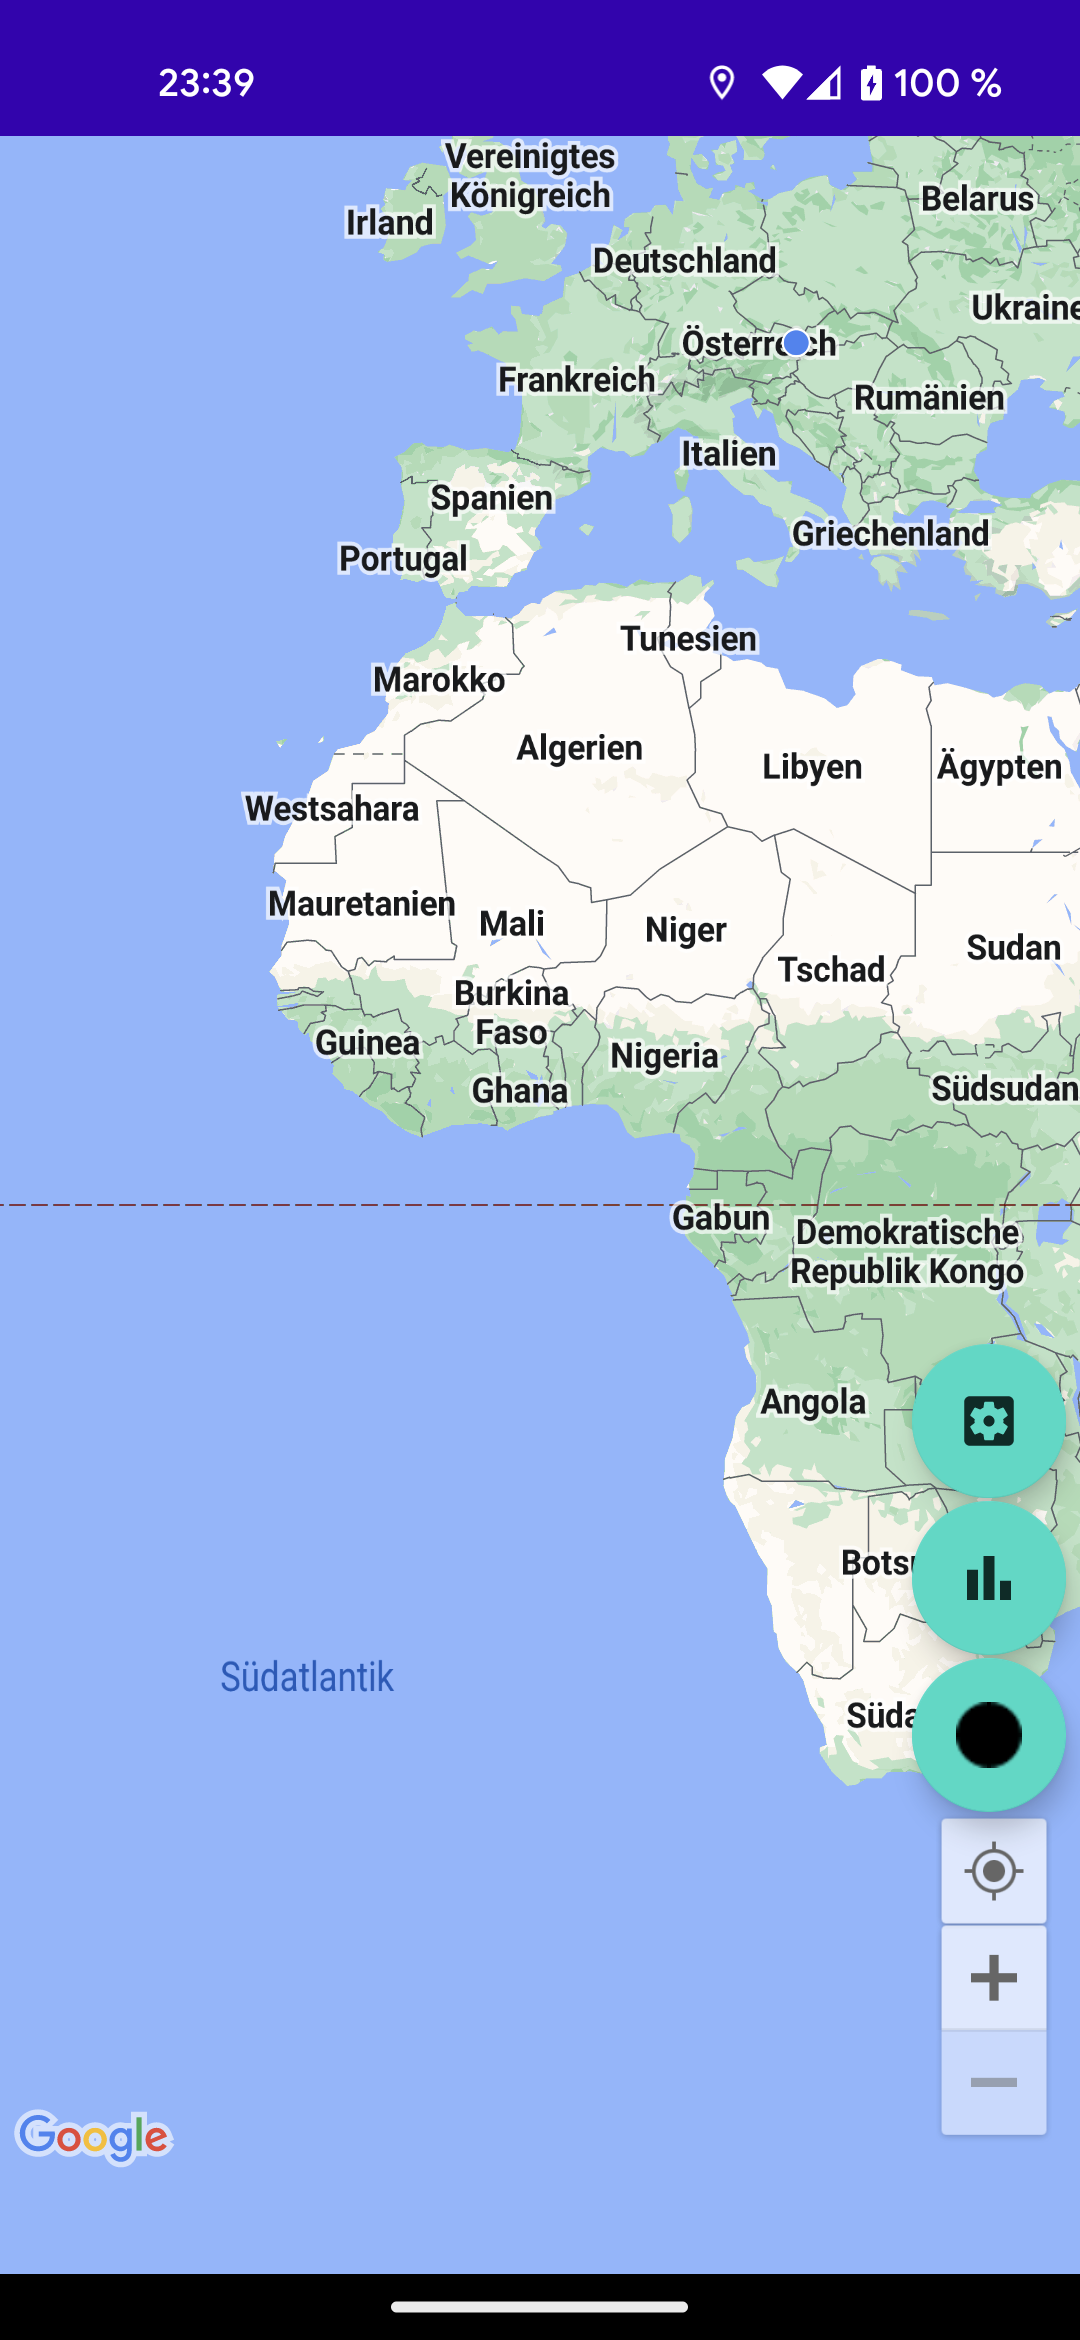
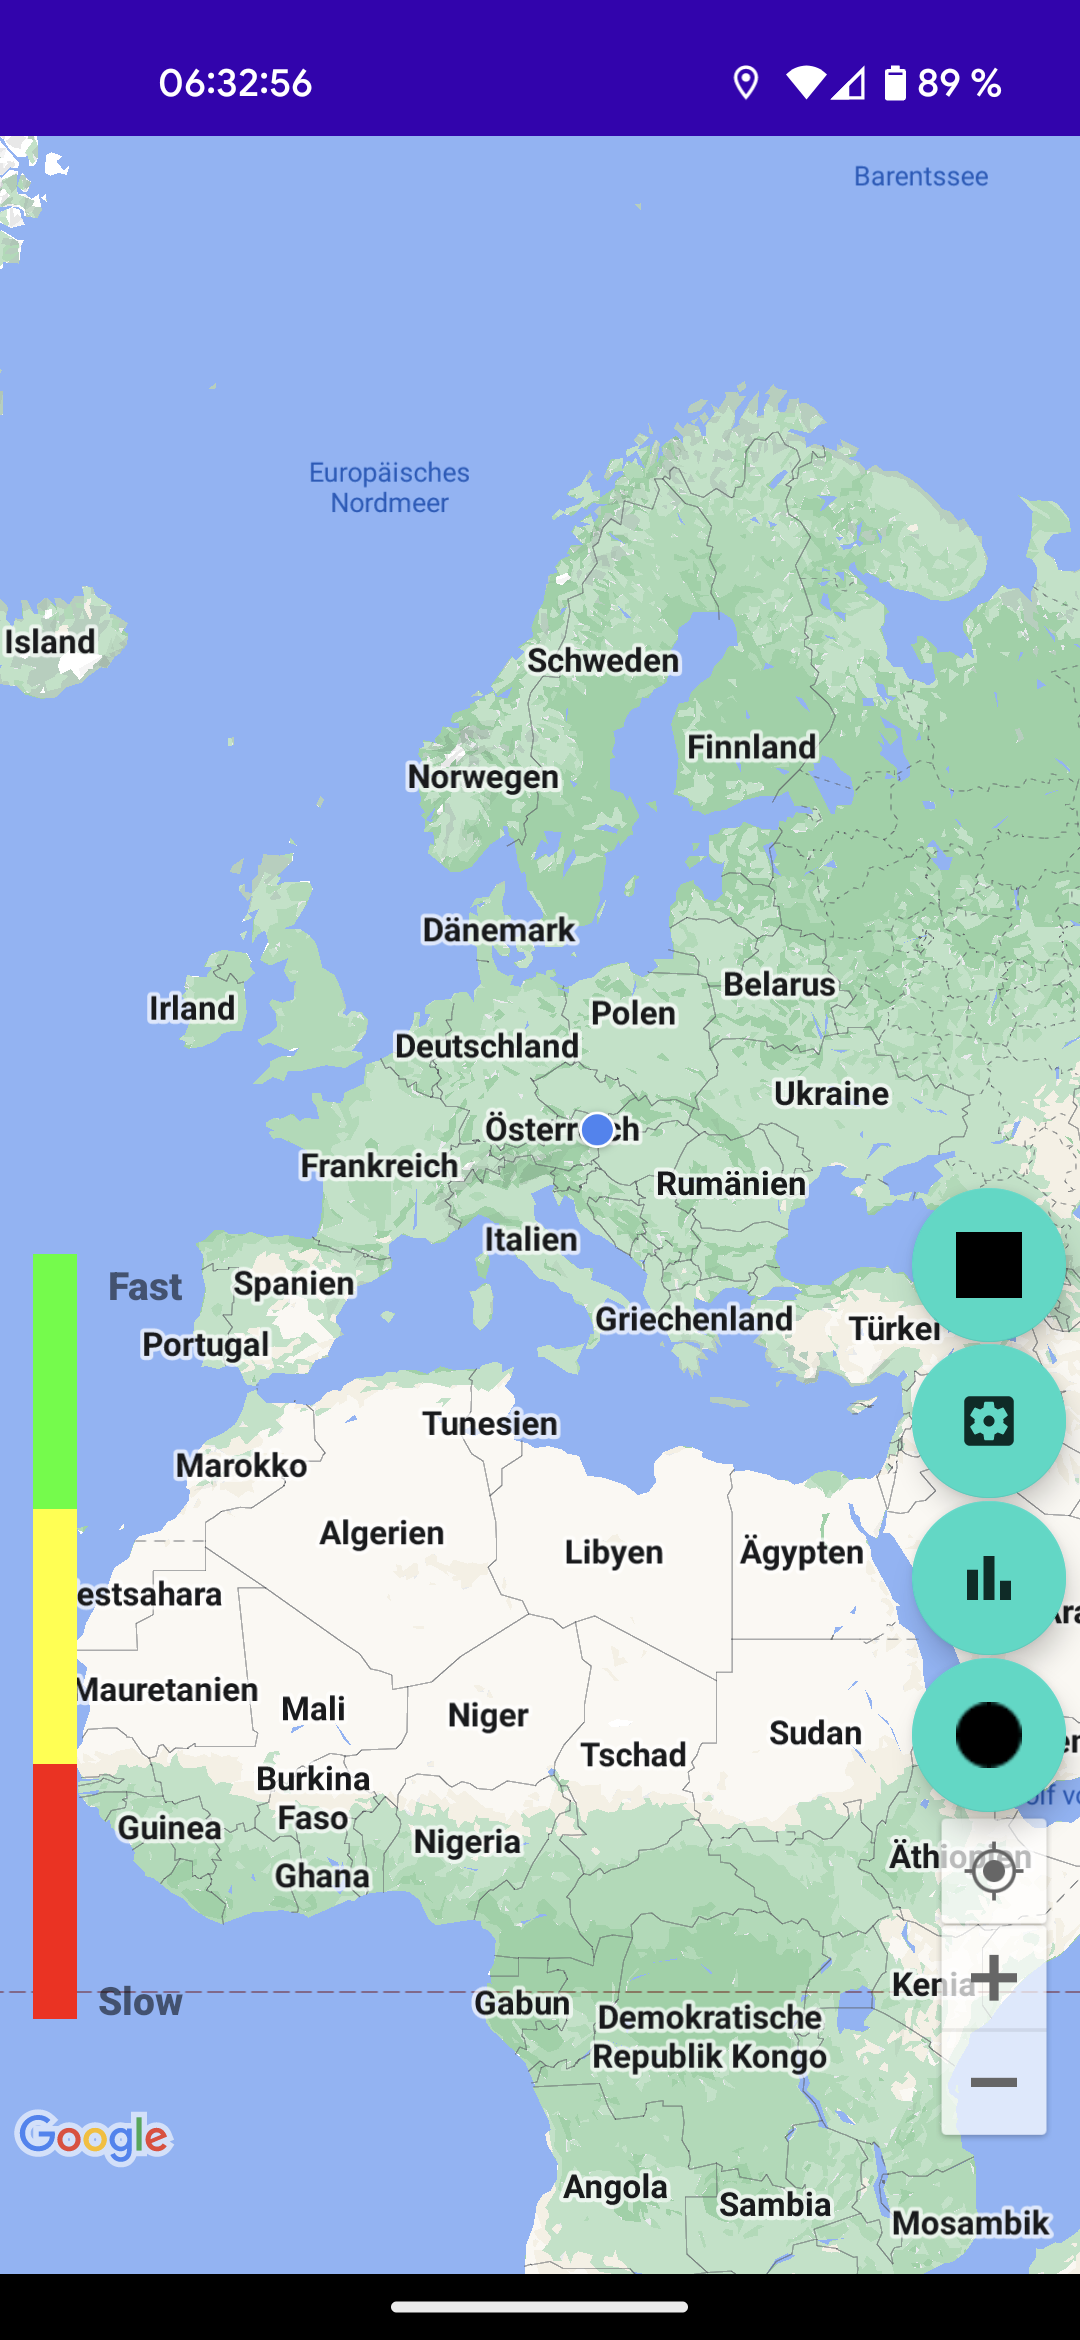
* README.md: updated + new pics added

diff --git a/README.md b/README.md
@@ -15,11 +15,11 @@ Start the app and that`s it.
 ![](app/pics/earth.png)
 ![](app/pics/austria.png)
 ![](app/pics/notification.png)
-![](app/pics/notification_no_information_received.png)
-![](app/pics/settings.png)
-![](app/pics/comment_dialog.png)
+![](app/pics/settings_part_1.png)
+![](app/pics/settings_part_2.png)
 ![](app/pics/screen_lock.png)
 ![](app/pics/select_run.png)
+![](app/pics/selected_colored_path.png)
 ![](app/pics/statistics.png)
 
 ## Contributing
